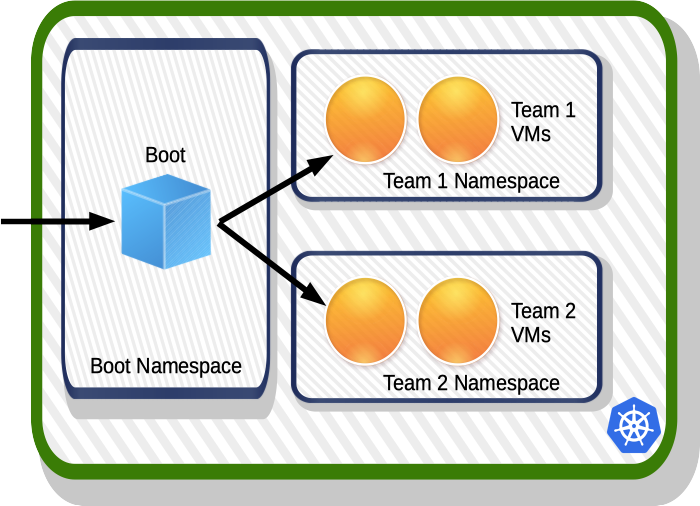
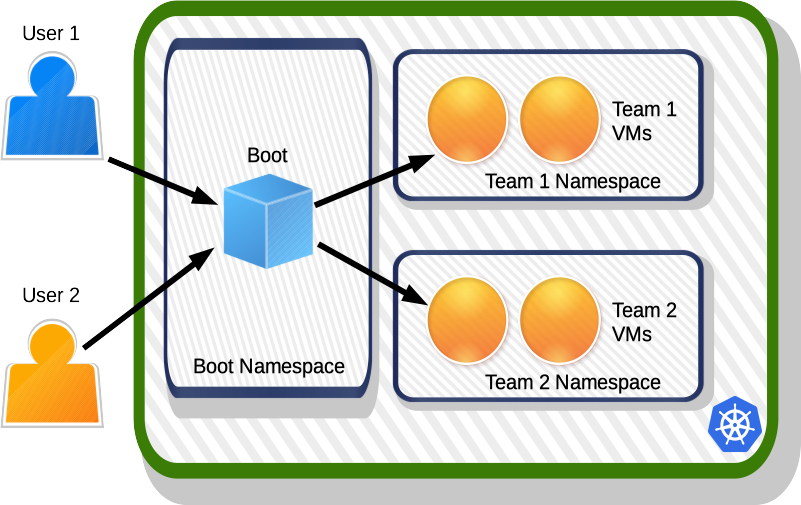
Documentation for Boot commit 6fa4a095629f1e33289a3c69132ee323dcae2e5a

diff --git a/latest/index.html b/latest/index.html
@@ -548,15 +548,10 @@ table.CodeRay td.code{padding:0 0 0 .75em}
 <ul class="sectlevel3">
 <li><a href="#boot-components">1.2.1. Boot Components</a></li>
 <li><a href="#boot-pod-contents">1.2.2. Boot Pod Contents</a></li>
-<li><a href="#boot-operation-modes">1.2.3. Boot Operation Modes</a></li>
+<li><a href="#boot-multiple-namespaces-support">1.2.3. Multiple Namespaces Support</a></li>
 </ul>
 </li>
-<li><a href="#permissions">1.3. Required Permissions</a>
-<ul class="sectlevel3">
-<li><a href="#permissions-single-namespace">1.3.1. Single Namespace Mode</a></li>
-<li><a href="#permissions-multiple-namespaces">1.3.2. Multiple Namespaces Mode</a></li>
-</ul>
-</li>
+<li><a href="#permissions">1.3. Required Permissions</a></li>
 </ul>
 </li>
 <li><a href="#main-features">2. Main Features</a>
@@ -599,8 +594,7 @@ table.CodeRay td.code{padding:0 0 0 .75em}
 <li><a href="#jumphost-user">3.2.1. User</a></li>
 <li><a href="#jumphost-port">3.2.2. Network Port</a></li>
 <li><a href="#jumphost-keys-certificates">3.2.3. Allowed User Keys and Certificates</a></li>
-<li><a href="#jumphost-host-certificate">3.2.4. Custom Host Certificate</a></li>
-<li><a href="#jumphost-computing-resources">3.2.5. Computing Resources</a></li>
+<li><a href="#jumphost-computing-resources">3.2.4. Computing Resources</a></li>
 </ul>
 </li>
 <li><a href="#license">3.3. License Key</a>
@@ -928,73 +922,26 @@ root@my-vm:~# # You now have a root access to created virtual machine</code></pr
 </table>
 </div>
 <div class="sect3">
-<h4 id="boot-operation-modes"><a class="anchor" href="#boot-operation-modes"></a>1.2.3. Boot Operation Modes</h4>
+<h4 id="boot-multiple-namespaces-support"><a class="anchor" href="#boot-multiple-namespaces-support"></a>1.2.3. Multiple Namespaces Support</h4>
 <div class="paragraph">
-<p>Boot has two different operation modes: <strong>single namespace mode</strong> and <strong>multiple namespaces mode</strong>.</p>
+<p>Boot can launch virtual machines in any number of Kubernetes namespaces. By default, Boot itself and all launched virtual machines are running in the same Kubernetes namespace. This is suitable if only one team is using Boot or you don&#8217;t need to limit virtual machines consumption for different Boot users.</p>
 </div>
 <div class="paragraph">
-<div class="title">Single Namespace Mode</div>
-<p><span class="image"><img src="img/single-namespace-mode.png" alt="single-namespace-mode"></span></p>
-</div>
-<div class="paragraph">
-<p>In single namespace mode Boot itself and all launched virtual machines are running in the one Kubernetes namespace. This is suitable if only one team is using Boot or you don&#8217;t need to limit virtual machines consumption for different Boot users. By default, Boot is launched in this mode.</p>
-</div>
-<div class="paragraph">
-<div class="title">Multiple Namespaces Mode</div>
+<div class="title">Boot with Multiple Namespaces Configured</div>
 <p><span class="image"><img src="img/multiple-namespaces-mode.png" alt="multiple-namespaces-mode"></span></p>
 </div>
 <div class="paragraph">
-<p>In multiple namespaces mode Boot is running in one namespace and virtual machines are launched in separate namespaces. The total number of such namespaces is unlimited. This mode is mainly needed when you want to control computing resources, virtual machine operating system versions or network access rules (<a href="https://kubernetes.io/docs/concepts/services-networking/network-policies/">network policies</a>) available for every team. How to enable this mode is described <a href="#multiple-namespaces">here</a>.</p>
+<p>It is easy to configure Boot to run in one namespace and to launch virtual machines in separate namespaces. Multiple namespaces are mainly needed when you want to control computing resources, virtual machine operating system versions or network access rules (<a href="https://kubernetes.io/docs/concepts/services-networking/network-policies/">network policies</a>) available for every team. For example, user 1 virtual machines will be running in team 1 namespace and user 2 virtual machines will be running in team 2 namespace. How to configure multiple namespaces is described <a href="#multiple-namespaces">here</a>.</p>
 </div>
 </div>
 </div>
 <div class="sect2">
 <h3 id="permissions"><a class="anchor" href="#permissions"></a>1.3. Required Permissions</h3>
 <div class="paragraph">
-<p>Boot requires a limited set of permissions and should work with default Kubernetes settings. By default, Boot runs virtual machines in the same <code>boot</code> namespace where it runs (<strong>single namespace mode</strong>). In addition to that Boot supports multiple Kubernetes <a href="https://kubernetes.io/docs/tasks/administer-cluster/namespaces-walkthrough/">namespaces</a>. This allows you to have one Boot instance running in <code>boot</code> namespace and an arbitrary number of namespaces for running virtual machines of different users (<strong>multiple namespaces mode</strong>). Multiple namespaces allow you to easily control the maximum number of virtual machines allowed to run by every team.</p>
-</div>
-<div class="sect3">
-<h4 id="permissions-single-namespace"><a class="anchor" href="#permissions-single-namespace"></a>1.3.1. Single Namespace Mode</h4>
-<div class="paragraph">
-<p>The following table summarizes what needs to be accessible for Boot in single namespace mode:</p>
+<p>Boot requires a limited set of permissions and should work with default Kubernetes settings. Boot can launch virtual machines in any number of Kubernetes namespaces. All required roles are automatically created with Helm chart. The following table shows Boot permissions in the namespace where it is running:</p>
 </div>
 <table class="tableblock frame-all grid-all stretch">
-<caption class="title">Table 2. Required Boot Permissions In Single Namespace Mode</caption>
-<colgroup>
-<col style="width: 50%;">
-<col style="width: 50%;">
-</colgroup>
-<tbody>
-<tr>
-<td class="tableblock halign-left valign-top"><p class="tableblock"><strong>Permission</strong></p></td>
-<td class="tableblock halign-left valign-top"><p class="tableblock"><strong>Purpose</strong></p></td>
-</tr>
-<tr>
-<td class="tableblock halign-left valign-top"><p class="tableblock">To <strong>get</strong>, <strong>watch</strong>, <strong>list</strong>, <strong>create</strong>, <strong>delete</strong>, <strong>update</strong> and <strong>patch</strong> <a href="https://kubernetes.io/docs/concepts/workloads/pods/pod/">pods</a></p></td>
-<td class="tableblock halign-left valign-top"><p class="tableblock">Used to manipulate pods backing virtual machines</p></td>
-</tr>
-<tr>
-<td class="tableblock halign-left valign-top"><p class="tableblock">To <strong>get</strong>, <strong>watch</strong>, <strong>list</strong>, <strong>create</strong>, <strong>delete</strong>, <strong>update</strong> and <strong>patch</strong> <a href="https://kubernetes.io/docs/concepts/configuration/configmap/">config maps</a></p></td>
-<td class="tableblock halign-left valign-top"><p class="tableblock">Used to pass various files like SSH keys and certificates to virtual machines</p></td>
-</tr>
-<tr>
-<td class="tableblock halign-left valign-top"><p class="tableblock">To <strong>get</strong>, <strong>watch</strong>, <strong>list</strong>, <strong>create</strong>, <strong>delete</strong>, <strong>update</strong> and <strong>patch</strong> <a href="https://kubernetes.io/docs/concepts/workloads/controllers/deployment/">deployments</a> and <a href="https://kubernetes.io/docs/concepts/workloads/controllers/replicaset/">replica sets</a></p></td>
-<td class="tableblock halign-left valign-top"><p class="tableblock">Used in license functionality</p></td>
-</tr>
-<tr>
-<td class="tableblock halign-left valign-top"><p class="tableblock">To <strong>get</strong>, <strong>watch</strong> and <strong>list</strong> Boot <a href="https://kubernetes.io/docs/concepts/extend-kubernetes/api-extension/custom-resources/">custom resources</a> in <code>boot.aerokube.com</code> API group</p></td>
-<td class="tableblock halign-left valign-top"><p class="tableblock">These custom resources store Boot configuration and virtual machines related information. Boot licenses (<code>licenses.boot.aerokube.com</code>) are cluster-wide, so a <a href="https://kubernetes.io/docs/reference/access-authn-authz/rbac/#role-and-clusterrole">ClusterRole</a> is needed for this resource.</p></td>
-</tr>
-</tbody>
-</table>
-</div>
-<div class="sect3">
-<h4 id="permissions-multiple-namespaces"><a class="anchor" href="#permissions-multiple-namespaces"></a>1.3.2. Multiple Namespaces Mode</h4>
-<div class="paragraph">
-<p>When running browsers in multiple namespaces required permissions differ. The following table shows Boot permissions in the namespace where it is running:</p>
-</div>
-<table class="tableblock frame-all grid-all stretch">
-<caption class="title">Table 3. Required Permissions for the Namespace where Boot runs</caption>
+<caption class="title">Table 2. Required Permissions for the Namespace where Boot runs</caption>
 <colgroup>
 <col style="width: 50%;">
 <col style="width: 50%;">
@@ -1026,7 +973,7 @@ root@my-vm:~# # You now have a root access to created virtual machine</code></pr
 <p>For every user namespace Boot needs the following permissions:</p>
 </div>
 <table class="tableblock frame-all grid-all stretch">
-<caption class="title">Table 4. Required Boot Permissions For User Namespace</caption>
+<caption class="title">Table 3. Required Boot Permissions For User Namespace</caption>
 <colgroup>
 <col style="width: 50%;">
 <col style="width: 50%;">
@@ -1050,7 +997,6 @@ root@my-vm:~# # You now have a root access to created virtual machine</code></pr
 </tr>
 </tbody>
 </table>
-</div>
 </div>
 </div>
 </div>
@@ -1864,20 +1810,6 @@ ssh-ed25519 AAAAC3NzaC1lZDI1NTE5AAAAIFHZc6j06RCf+8/J1IuS8SY1/hasLHlik6XRnO87+Zhu
 </li>
 <li>
 <p>Now if you try to execute the same command - SSH will never ask you to confirm authenticity of virtual machines. You only need to confirm jump host (<code>boot.example.com</code>) authenticity once.</p>
-<div class="admonitionblock note">
-<table>
-<tr>
-<td class="icon">
-<i class="fa icon-note" title="Note"></i>
-</td>
-<td class="content">
-<div class="paragraph">
-<p>We intentionally do not automatically configure host certificate for the jump host. Default behavior is to generate a regular set of host keys that every Boot user should confirm once. This is because jump host is globally protecting all virtual machines from unauthorized access and decisions about using host certificates should be explicitly made by cluster administrator. Detailed documentation about configuring jump host security settings is provided in <a href="#jumphost">jump host documentation</a>.</p>
-</div>
-</td>
-</tr>
-</table>
-</div>
 </li>
 </ol>
 </div>
@@ -2374,22 +2306,7 @@ boot:
 </div>
 </div>
 <div class="sect3">
-<h4 id="jumphost-host-certificate"><a class="anchor" href="#jumphost-host-certificate"></a>3.2.4. Custom Host Certificate</h4>
-<div class="paragraph">
-<p>By default, Boot automatically generates standard SSH host keys for jump host SSH server. Users will have to trust these keys during the first connection. If you prefer to provide an SSH certificate instead:</p>
-</div>
-<div class="listingblock">
-<div class="title">Setting an SSH certificate for jump host</div>
-<div class="content">
-<pre class="CodeRay highlight"><code data-lang="bash">$ cat values.yaml
-boot:
-  jumphost:
-    hostCertificate: &quot;ssh-rsa-cert-v01@openssh.com AAAAHHNzaC1yc2Et...xUpYDJQk= some-comment&quot;</code></pre>
-</div>
-</div>
-</div>
-<div class="sect3">
-<h4 id="jumphost-computing-resources"><a class="anchor" href="#jumphost-computing-resources"></a>3.2.5. Computing Resources</h4>
+<h4 id="jumphost-computing-resources"><a class="anchor" href="#jumphost-computing-resources"></a>3.2.4. Computing Resources</h4>
 <div class="paragraph">
 <p>If for some reason default jump host computing resources are not sufficient:</p>
 </div>
@@ -2525,7 +2442,6 @@ metadata:
   # Other Kubernetes metadata
 spec:
   data: YkV0dmNsaGxTak51Y2....      <i class="conum" data-value="2"></i><b>(2)</b>
-  namespace: boot                   <i class="conum" data-value="3"></i><b>(3)</b>
 status:
   # Other keys and values</code></pre>
 </div>
@@ -2534,15 +2450,11 @@ status:
 <table>
 <tr>
 <td><i class="conum" data-value="1"></i><b>1</b></td>
-<td>License key name</td>
+<td>License key name, should correspond to namespace name where this license key should be used</td>
 </tr>
 <tr>
 <td><i class="conum" data-value="2"></i><b>2</b></td>
 <td>License key contents</td>
-</tr>
-<tr>
-<td><i class="conum" data-value="3"></i><b>3</b></td>
-<td>Namespace where this license key should be used</td>
 </tr>
 </table>
 </div>
@@ -2573,7 +2485,7 @@ status:
 <p><a href="#install">Deploy</a> two independent Boot clusters to namespace <code>ns1</code> and <code>ns2</code></p>
 </li>
 <li>
-<p>Create two license objects with <code>namespace</code> field set to <code>ns1</code> and <code>ns2</code> and save them to file (e.g. <code>license-keys.yaml</code>):</p>
+<p>Create two license objects with <code>name</code> field set to <code>ns1</code> and <code>ns2</code> and save them to file (e.g. <code>license-keys.yaml</code>):</p>
 <div class="listingblock">
 <div class="title">License keys to be created</div>
 <div class="content">
@@ -2581,18 +2493,16 @@ status:
 apiVersion: boot.aerokube.com/v1
 kind: License
 metadata:
-  name: license-key-ns1
+  name: ns1
 spec:
   data: &lt;license-key-1&gt;
-  namespace: ns1
 ---
 apiVersion: boot.aerokube.com/v1
 kind: License
 metadata:
-  name: license-key-ns2
+  name: ns2
 spec:
-  data: &lt;license-key-2&gt;
-  namespace: ns2</code></pre>
+  data: &lt;license-key-2&gt;</code></pre>
 </div>
 </div>
 </li>
@@ -2652,7 +2562,7 @@ license-key-ns2   Acme Inc.  20     0%      30d       Ok       ns2         2m42s
 </div>
 </div>
 <div class="paragraph">
-<p>When you delete the last license key with <code>namespace</code> field set to some Boot namespace, Boot will automatically fall back to the free license key with 1 CPU included.</p>
+<p>When you delete the license key with <code>name</code> field set to some Boot namespace, Boot will automatically fall back to the free license key with 1 CPU included.</p>
 </div>
 </div>
 <div class="sect3">
@@ -3349,7 +3259,7 @@ $ kubectl logs -f -lapp=boot -c reloader -n boot</pre>
 <li>
 <p>For simplicity, we calculated monthly prices for some frequent cases:</p>
 <table class="tableblock frame-all grid-all stretch">
-<caption class="title">Table 5. Boot License Pricing</caption>
+<caption class="title">Table 4. Boot License Pricing</caption>
 <colgroup>
 <col style="width: 50%;">
 <col style="width: 50%;">
@@ -3440,7 +3350,7 @@ $ kubectl logs -f -lapp=boot -c reloader -n boot</pre>
 <div id="footer">
 <div id="footer-text">
 Version latest<br>
-Last updated 2023-09-16 13:23:14 UTC
+Last updated 2023-09-16 14:52:26 UTC
 </div>
 </div>
 </body>
